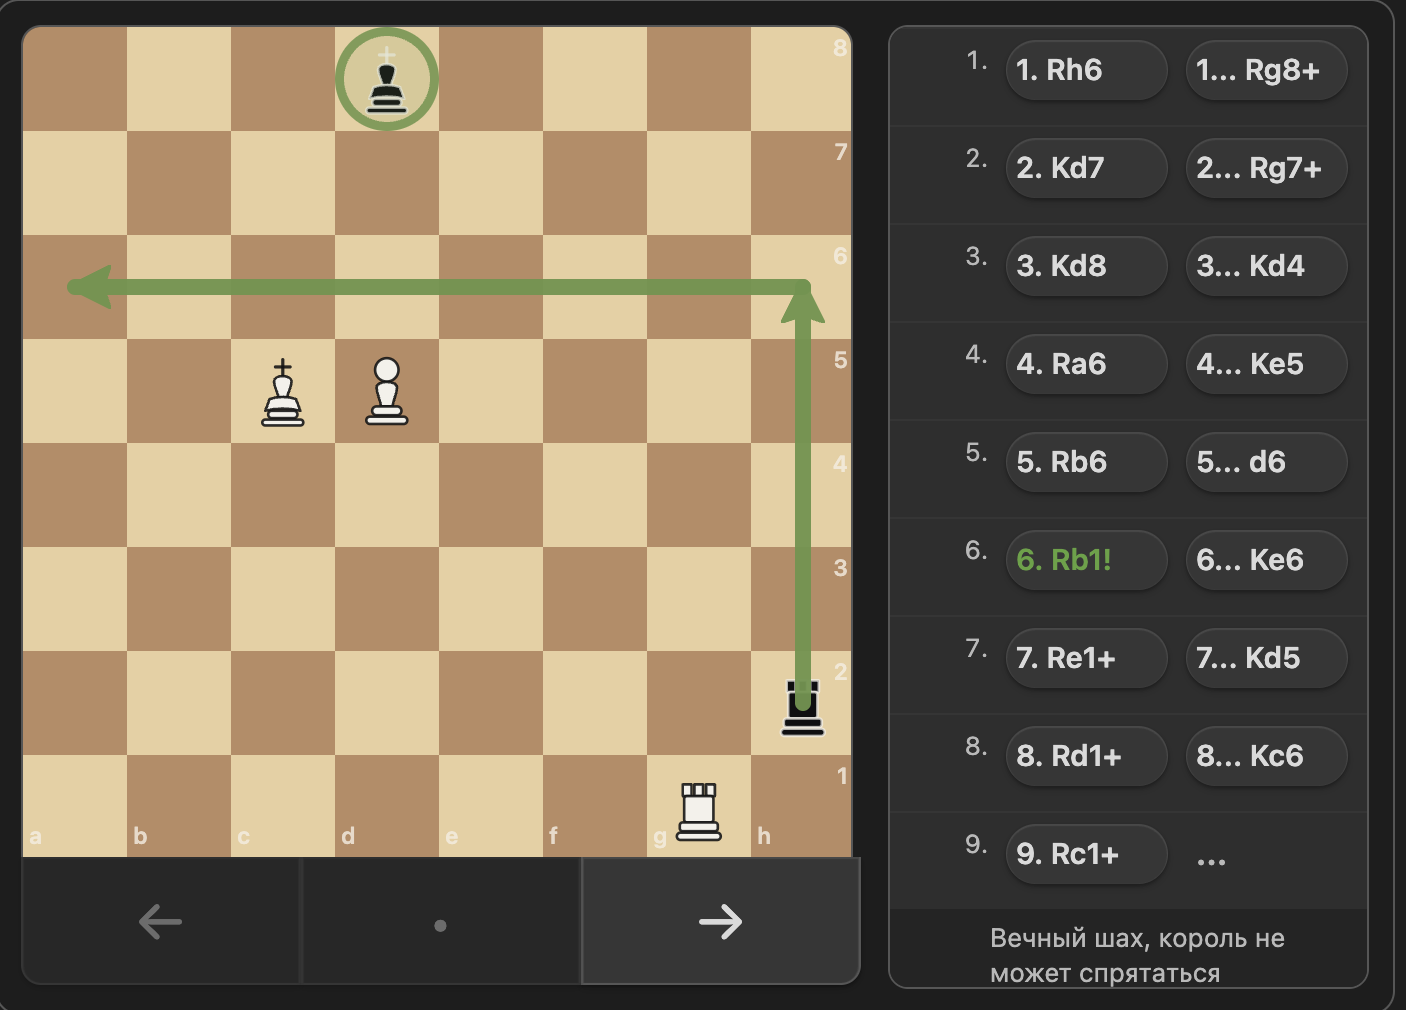
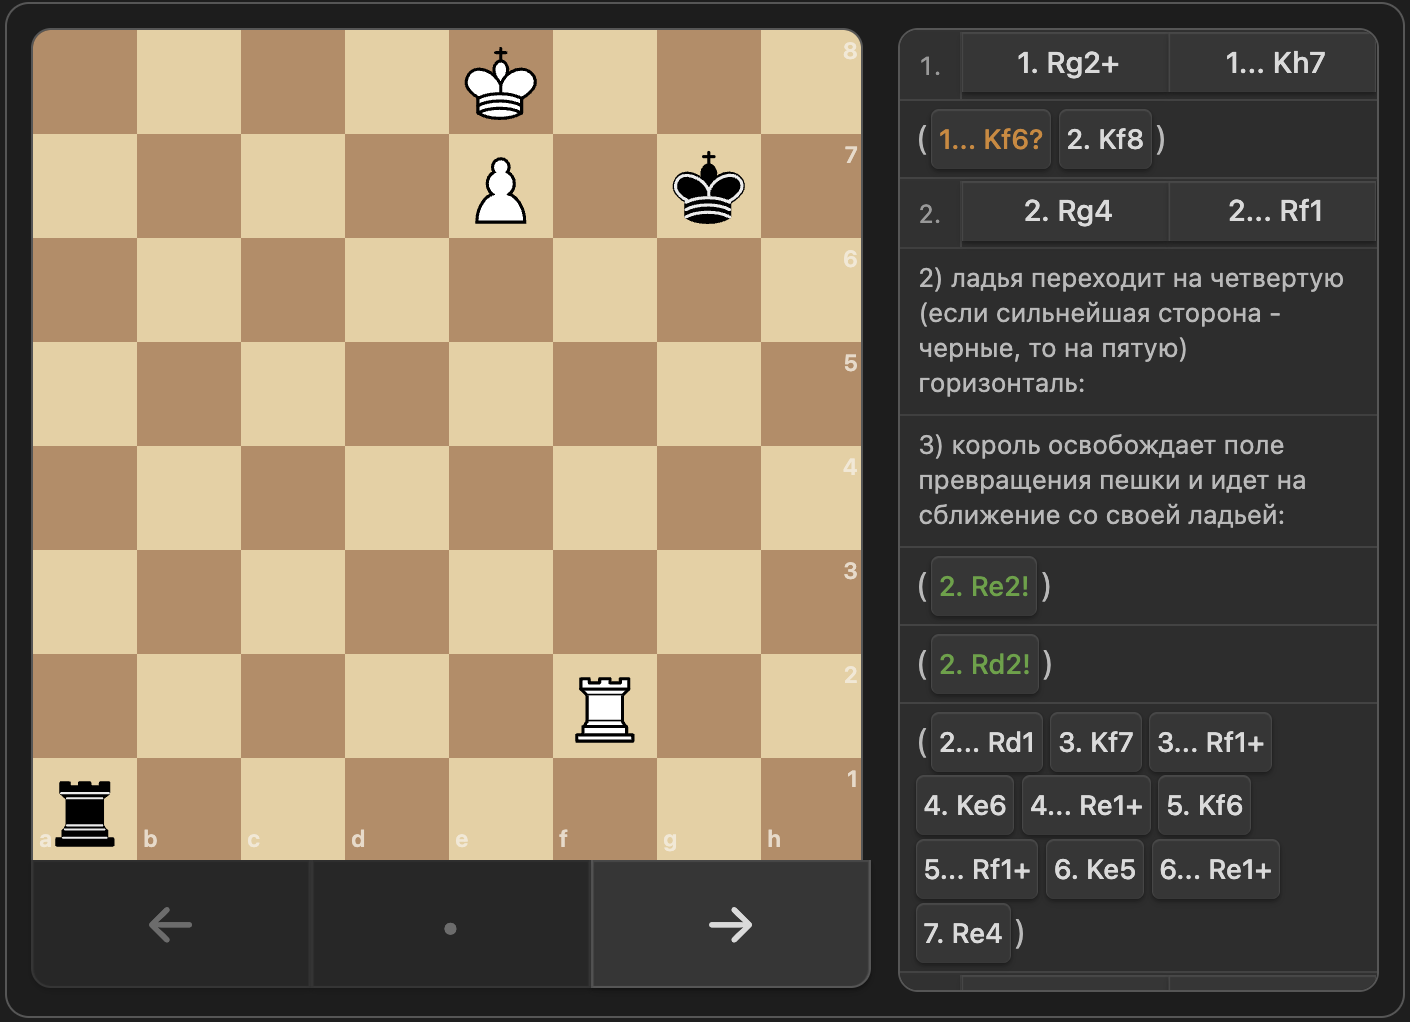
Update Screenshots

diff --git a/README.md b/README.md
@@ -14,8 +14,6 @@ See [CHANGELOG.md](./CHANGELOG.md) for release history.
 
 ![Board view](docs/assets/board-view.png)
 
-![Annotations and move glyphs](docs/assets/annotations.png)
-
 ## Features
 
 - Interactive chess board with previous, next, and reset navigation